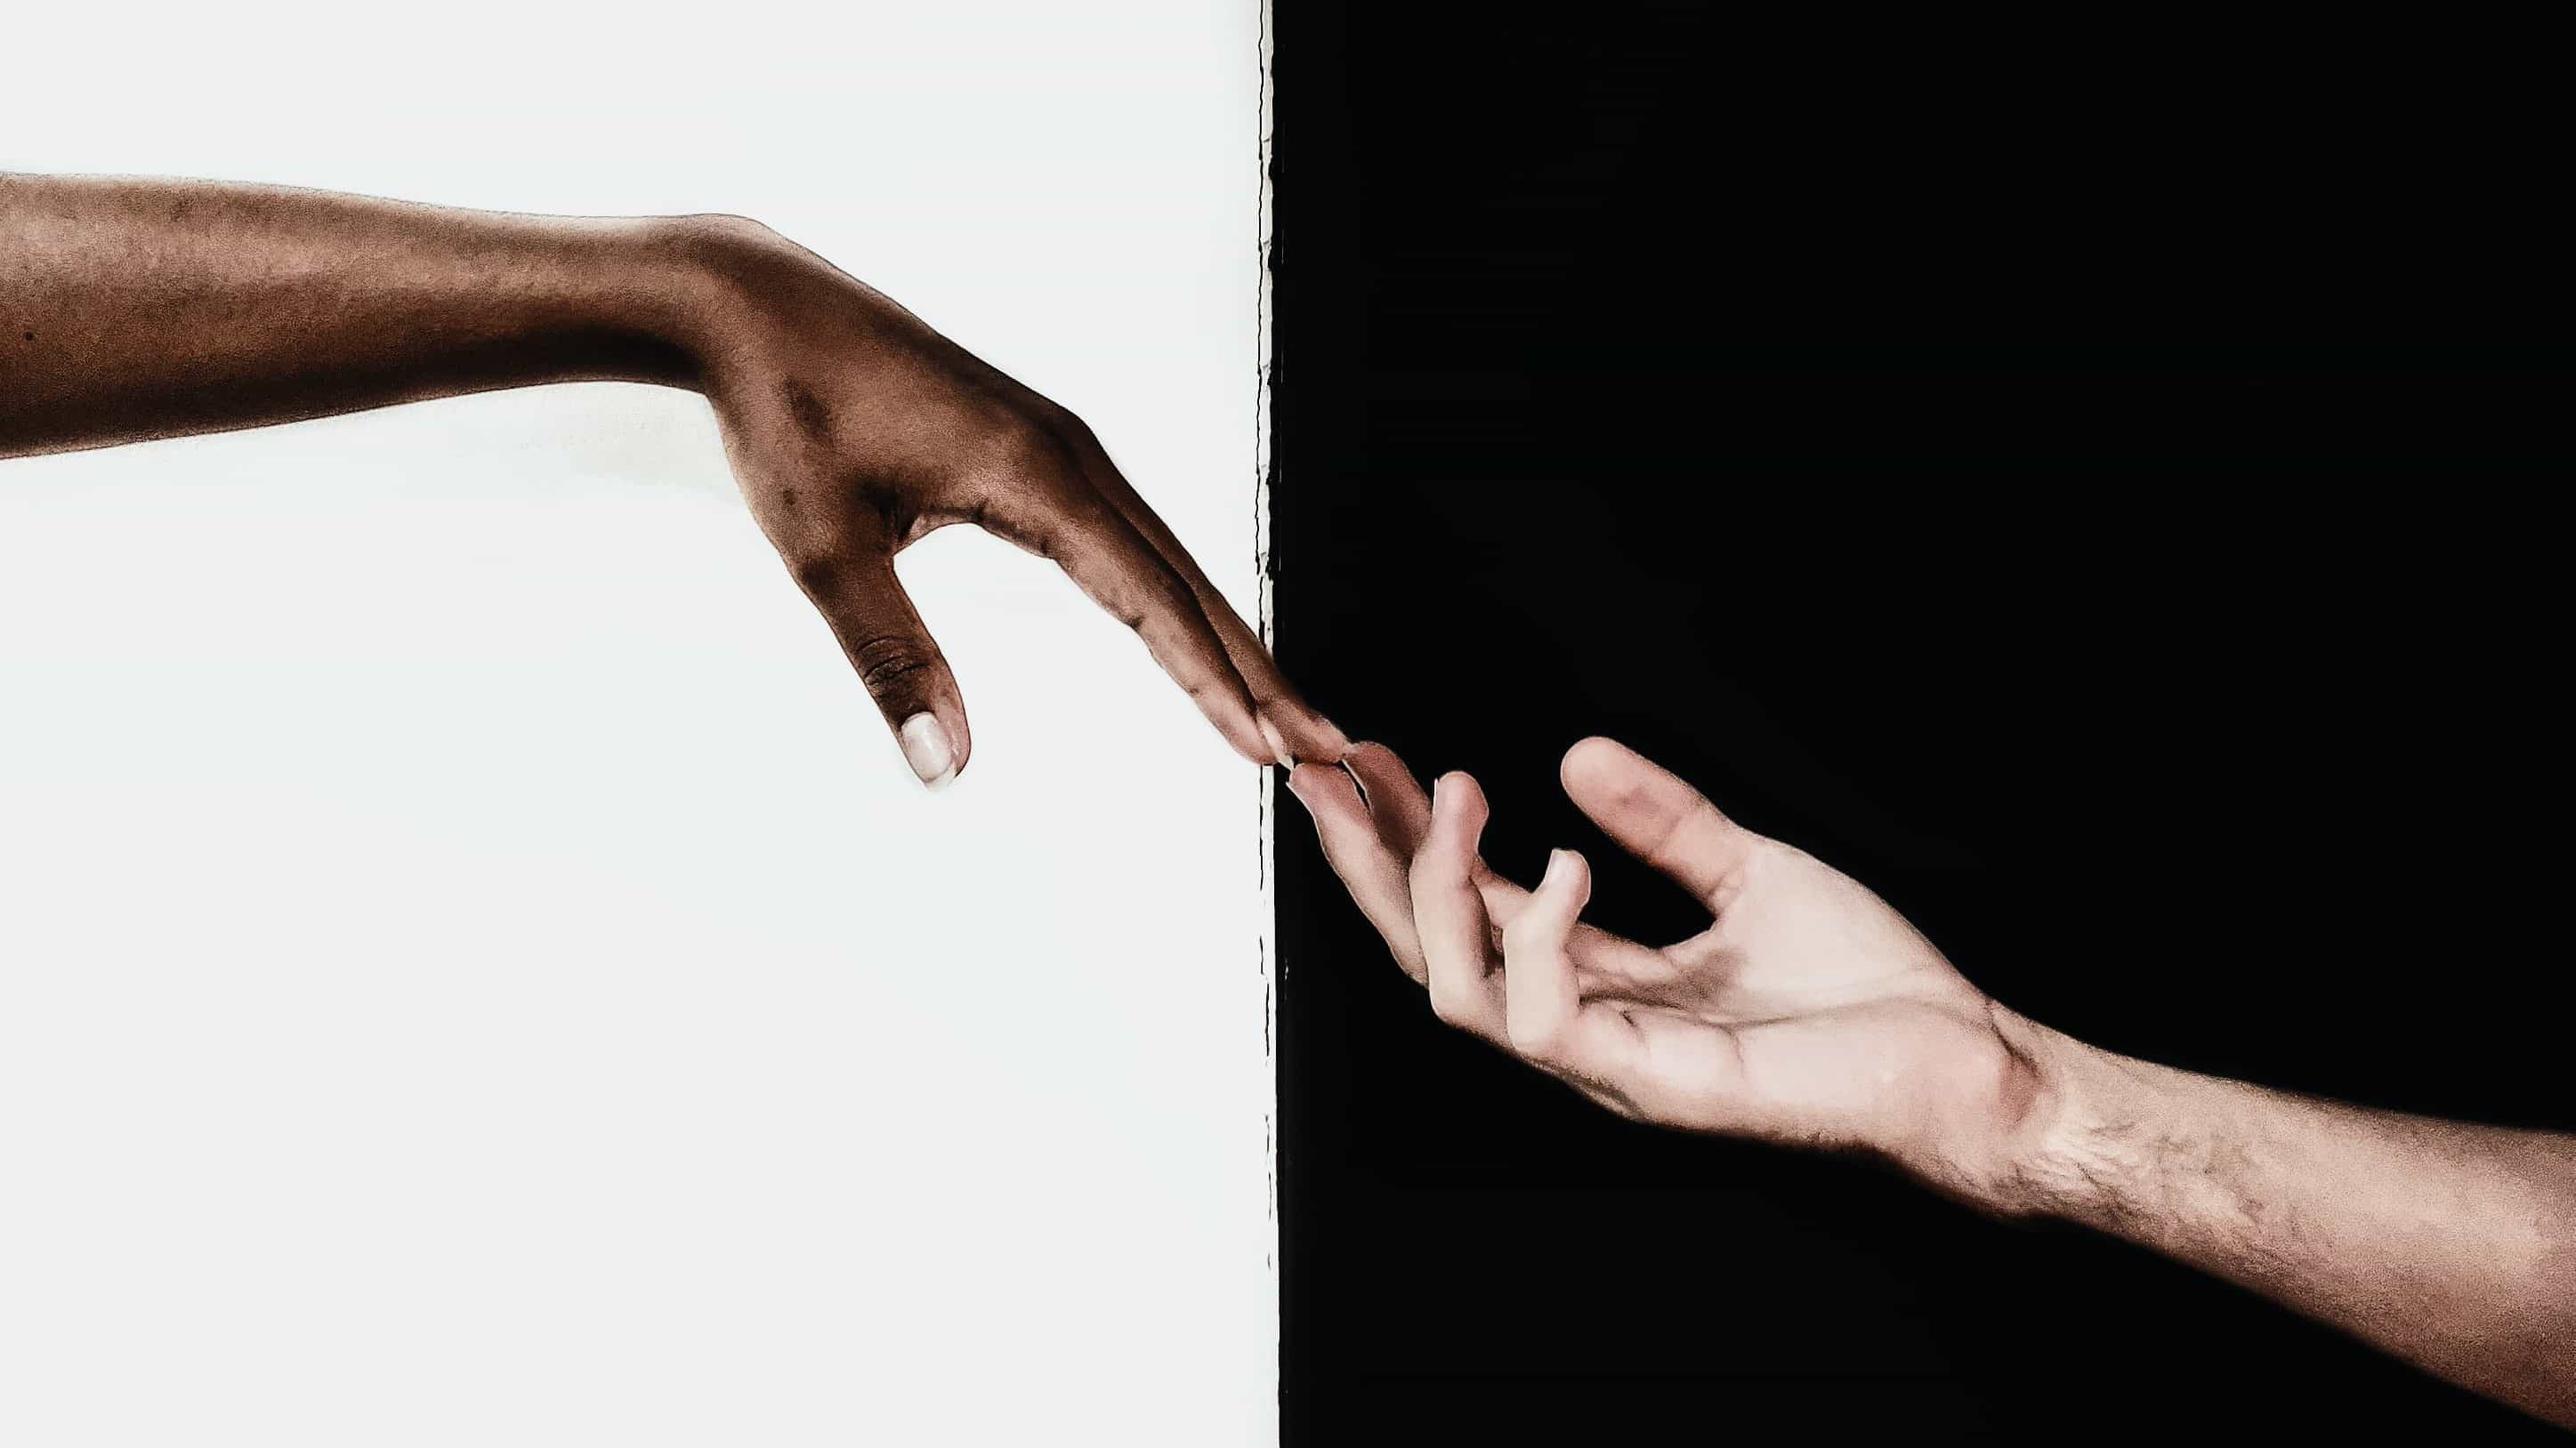
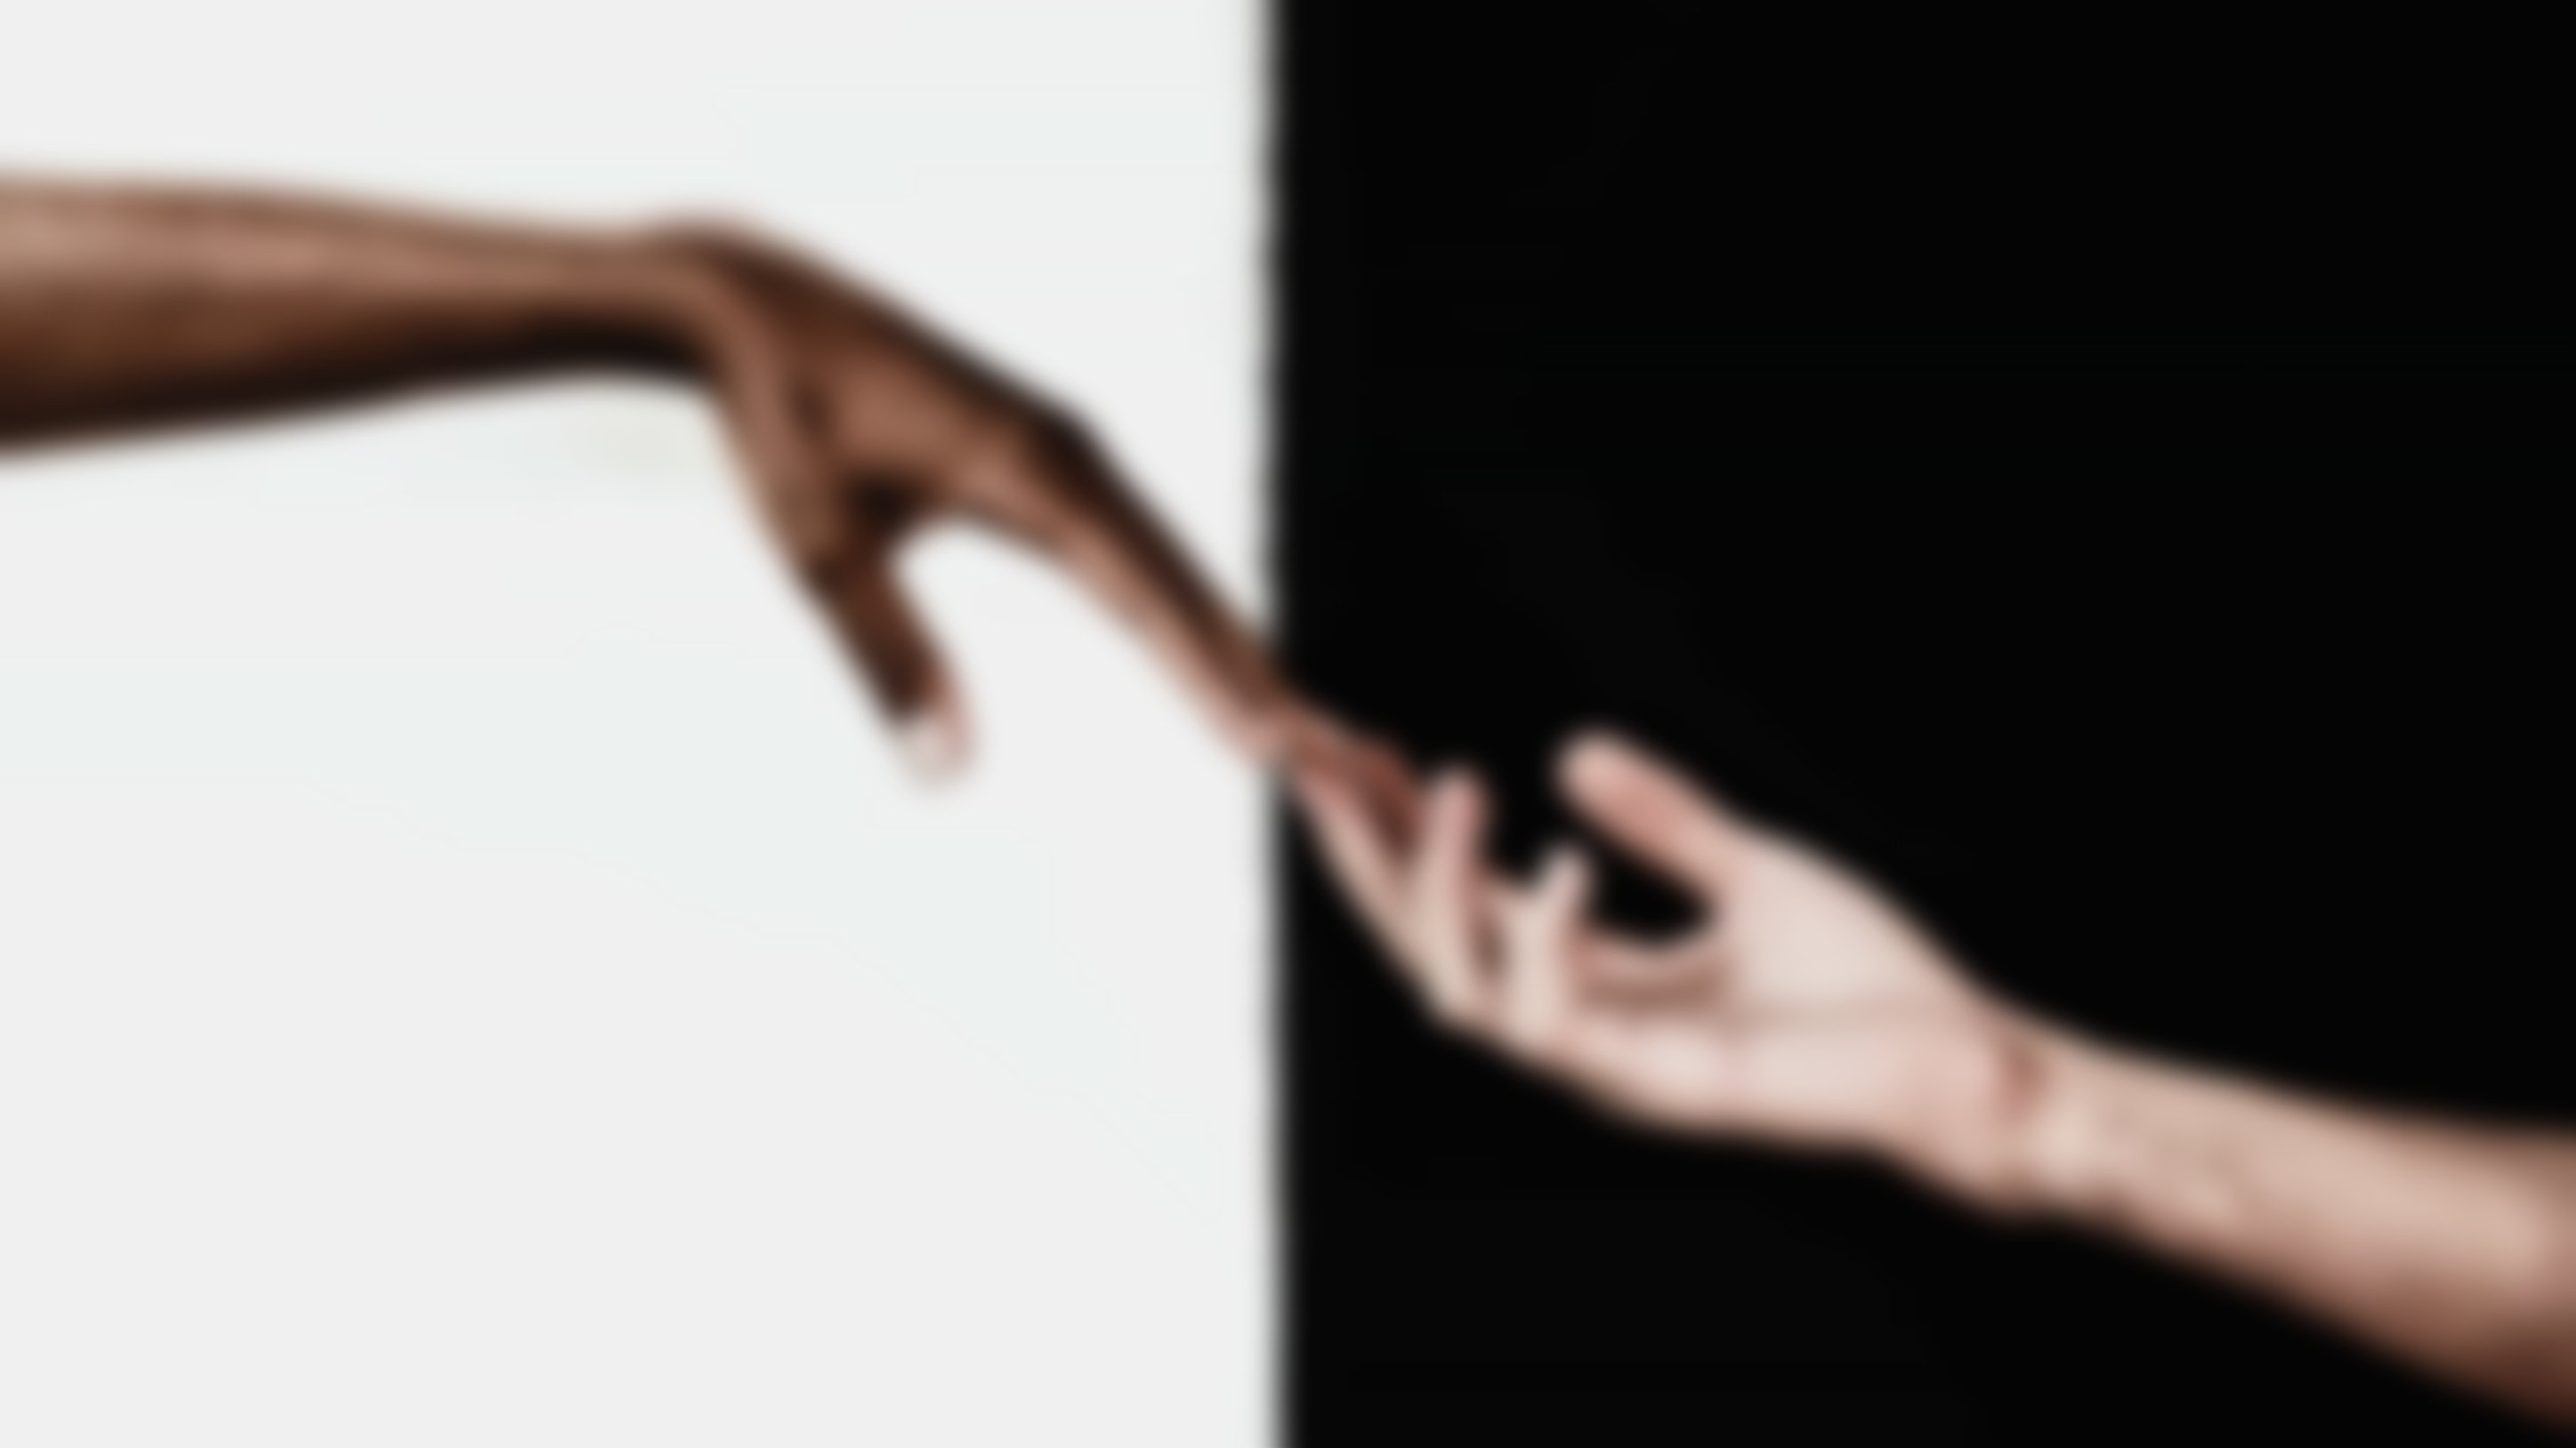
Add files via upload

Changed region(s): [[0.0, 0.0, 1.0, 1.0]]

diff --git a/donate.html b/donate.html
@@ -49,11 +49,85 @@
                 <a class="btn btn-primary fs-4" href="./list_helped_people.html">সাহায্য প্রার্থীদের তালিকা দেখুন</a>
               </li>
             </ul>
+            <div class="emergency mb-2">
+              <div><a href="tel:018232223" class="btn btn-danger fs-4">জরুরি প্রয়োজনে কল করুন</a></div>
+            </div>
           </div>
         </div>
       </nav>
     </div>
   </section>
+
+  <section>
+    <div class="container p-3">
+      <form action="https://sheetdb.io/api/v1/r9idtakig9x8w" method="post" id="sheetdb-form">
+        <div class="formwrap p-4 rounded">
+          <div class="mb-3">
+            <label for="date" class="form-label fs-4">তারিখঃ</label>
+            <input type="date" class="form-control" id="date" name="data[Date]" placeholder="তারিখ" required>
+            
+          </div>
+          <div class="mb-3">
+            <label for="fullname" class="form-label fs-4">সম্পূর্ন নামঃ</label>
+            <input type="text" class="form-control" id="fullname" name="data[Full Name]" placeholder="সম্পূর্ন নাম">
+            
+          </div>
+          <div class="mb-3">
+            <label for="amount" class="form-label fs-4">টাকার পরিমানঃ</label>
+            <input type="number" class="form-control" id="amount" name="data[Money Amount]" placeholder="টাকার পরিমান" required>
+            
+          </div>
+          <div class="mb-3">
+            <label for="mobile" class="form-label fs-4">মোবাইল নাম্বারঃ</label>
+            <input type="number" class="form-control" id="mobile" name="data[Mobile Number]" placeholder="মোবাইল নাম্বার">
+            
+          </div>
+          <div class="mb-3">
+            <label for="method" class="form-label fs-4">টাকা পাঠানোর মাধ্যমঃ</label>
+            <input type="text" class="form-control" id="method" name="data[Method]" placeholder="টাকা পাঠানোর মাধ্যম" required>
+            
+          </div>
+          <div class="mb-3">
+            <label for="lastdigit" class="form-label fs-4">যে নাম্বার থেকে টাকা পাঠানো হয়েছে তাই শেষের তিন ডিজিটঃ</label>
+            <input type="number" class="form-control" id="lastdigit" name="data[Last Digit]" placeholder="যে নাম্বার থেকে টাকা পাঠানো হয়েছে তাই শেষের তিন ডিজিট" required>
+            
+          </div>
+          
+          <div class="mb-3">
+            <div id="addmessage" class="form-text fs-2"></div>
+          </div>
+
+          <button type="submit" class="btn btn-primary fs-4">দান করুন</button>
+        </div>
+      </form>
+    </div>
+  </section>
+
+
+
+
+  <script>
+      const msg = document.getElementById('addmessage');
+      const sheetLink = document.getElementById('sheetLink');
+
+      let form = document.getElementById('sheetdb-form');
+        form.addEventListener("submit", e => {
+          e.preventDefault();
+          fetch(form.action, {
+              method : "POST",
+              body: new FormData(document.getElementById("sheetdb-form")),
+          }).then(
+              response => response.json()
+          ).then((html) => {
+            // you can put any JS code here
+            
+            msg.innerHTML = 'আপনার দানকৃত অর্থ আমাদের ডাটাবেজ এ সফলভাবে সংরক্ষন হয়েছে। আজকের মধ্যে আপনাকে কল করে এটি নিশ্চিত করা হবে। ধন্যবাদ ❤'
+
+            form.reset();
+
+          });
+        });
+  </script>
 
   <script>
     const loader = document.querySelector('.loaderWrap');
@@ -67,6 +141,6 @@
     })
     
   </script>
-  
+
 </body>
 </html>

diff --git a/family_data_add.html b/family_data_add.html
@@ -49,7 +49,11 @@
                 <a class="btn btn-primary fs-4" href="./list_helped_people.html">সাহায্য প্রার্থীদের তালিকা দেখুন</a>
               </li>
             </ul>
+            <div class="emergency mb-2">
+              <div><a href="tel:018232223" class="btn btn-danger fs-4">জরুরি প্রয়োজনে কল করুন</a></div>
+            </div>
           </div>
+          
         </div>
       </nav>
     </div>
@@ -153,7 +157,7 @@
             <div id="addmessage" class="form-text"></div>
           </div>
 
-          <button type="submit" class="btn btn-primary">Submit</button>
+          <button type="submit" class="btn btn-primary fs-4">তথ্য যোগ করুন</button>
         </div>
       </form>
     </div>
@@ -187,7 +191,7 @@
 
 <script>
   const loader = document.querySelector('.loaderWrap');
-  const spin = document.querySelector('.loader>div');
+  const spin = document.querySelector('.loaderWrap>div');
   const body = document.querySelector('body');
 
   window.addEventListener('load',function(){

diff --git a/get_help.html b/get_help.html
@@ -49,6 +49,9 @@
                 <a class="btn btn-primary fs-4" href="./list_helped_people.html">সাহায্য প্রার্থীদের তালিকা দেখুন</a>
               </li>
             </ul>
+            <div class="emergency mb-2">
+              <div><a href="tel:018232223" class="btn btn-danger fs-4">জরুরি প্রয়োজনে কল করুন</a></div>
+            </div>
           </div>
         </div>
       </nav>

diff --git a/helped_family_listing.html b/helped_family_listing.html
@@ -49,6 +49,9 @@
                 <a class="btn btn-primary fs-4" href="./list_helped_people.html">সাহায্য প্রার্থীদের তালিকা দেখুন</a>
               </li>
             </ul>
+            <div class="emergency mb-2">
+              <div><a href="tel:018232223" class="btn btn-danger fs-4">জরুরি প্রয়োজনে কল করুন</a></div>
+            </div>
           </div>
         </div>
       </nav>

diff --git a/index.html b/index.html
@@ -49,6 +49,9 @@
                 <a class="btn btn-primary fs-4" href="./list_helped_people.html">সাহায্য প্রার্থীদের তালিকা দেখুন</a>
               </li>
             </ul>
+            <div class="emergency mb-2">
+              <div><a href="tel:018232223" class="btn btn-danger fs-4">জরুরি প্রয়োজনে কল করুন</a></div>
+            </div>
           </div>
         </div>
       </nav>

diff --git a/list_helped_people.html b/list_helped_people.html
@@ -49,6 +49,9 @@
                 <a class="btn btn-primary fs-4" href="./list_helped_people.html">সাহায্য প্রার্থীদের তালিকা দেখুন</a>
               </li>
             </ul>
+            <div class="emergency mb-2">
+              <div><a href="tel:018232223" class="btn btn-danger fs-4">জরুরি প্রয়োজনে কল করুন</a></div>
+            </div>
           </div>
         </div>
       </nav>

diff --git a/style.css b/style.css
@@ -23,7 +23,6 @@ body {
   background-repeat: no-repeat;
   background-size: cover;
   background-attachment: fixed;
-  backdrop-filter: blur(1rem);
   overflow: hidden;
 }
 
